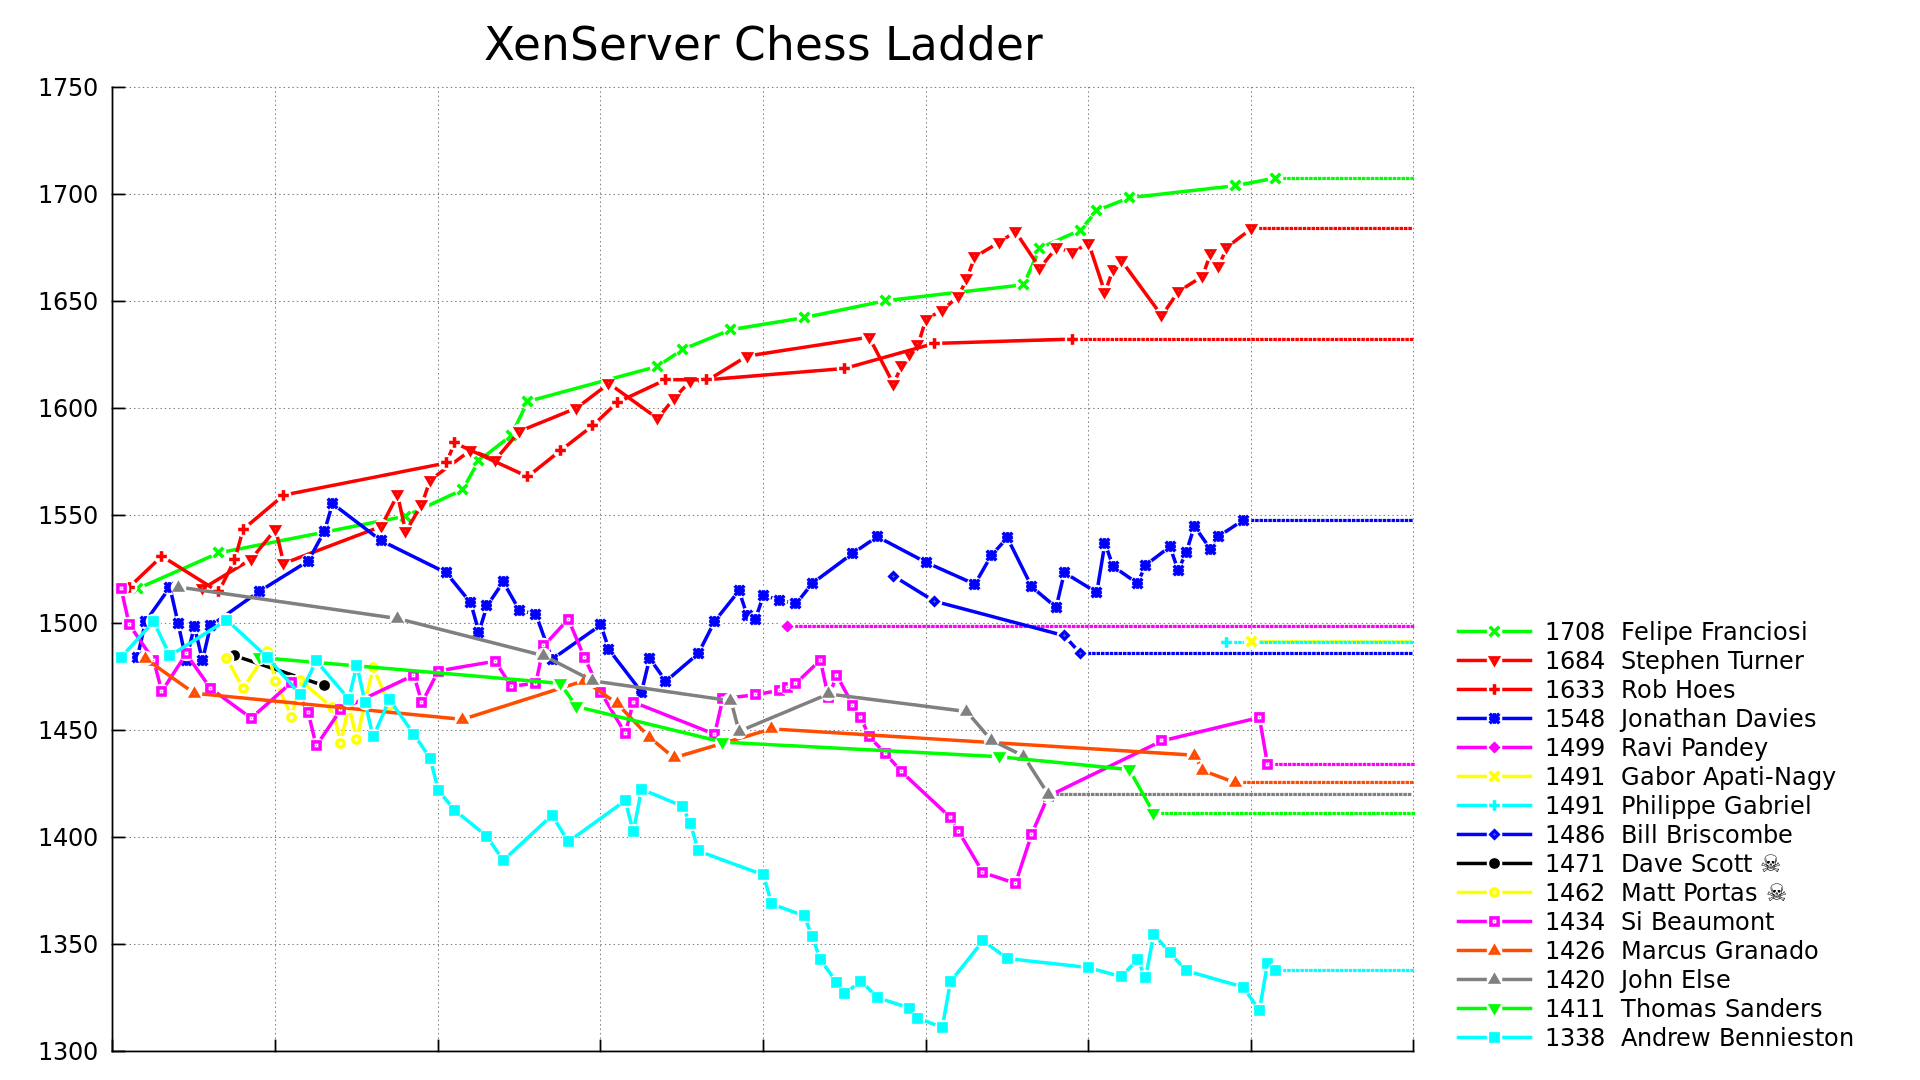
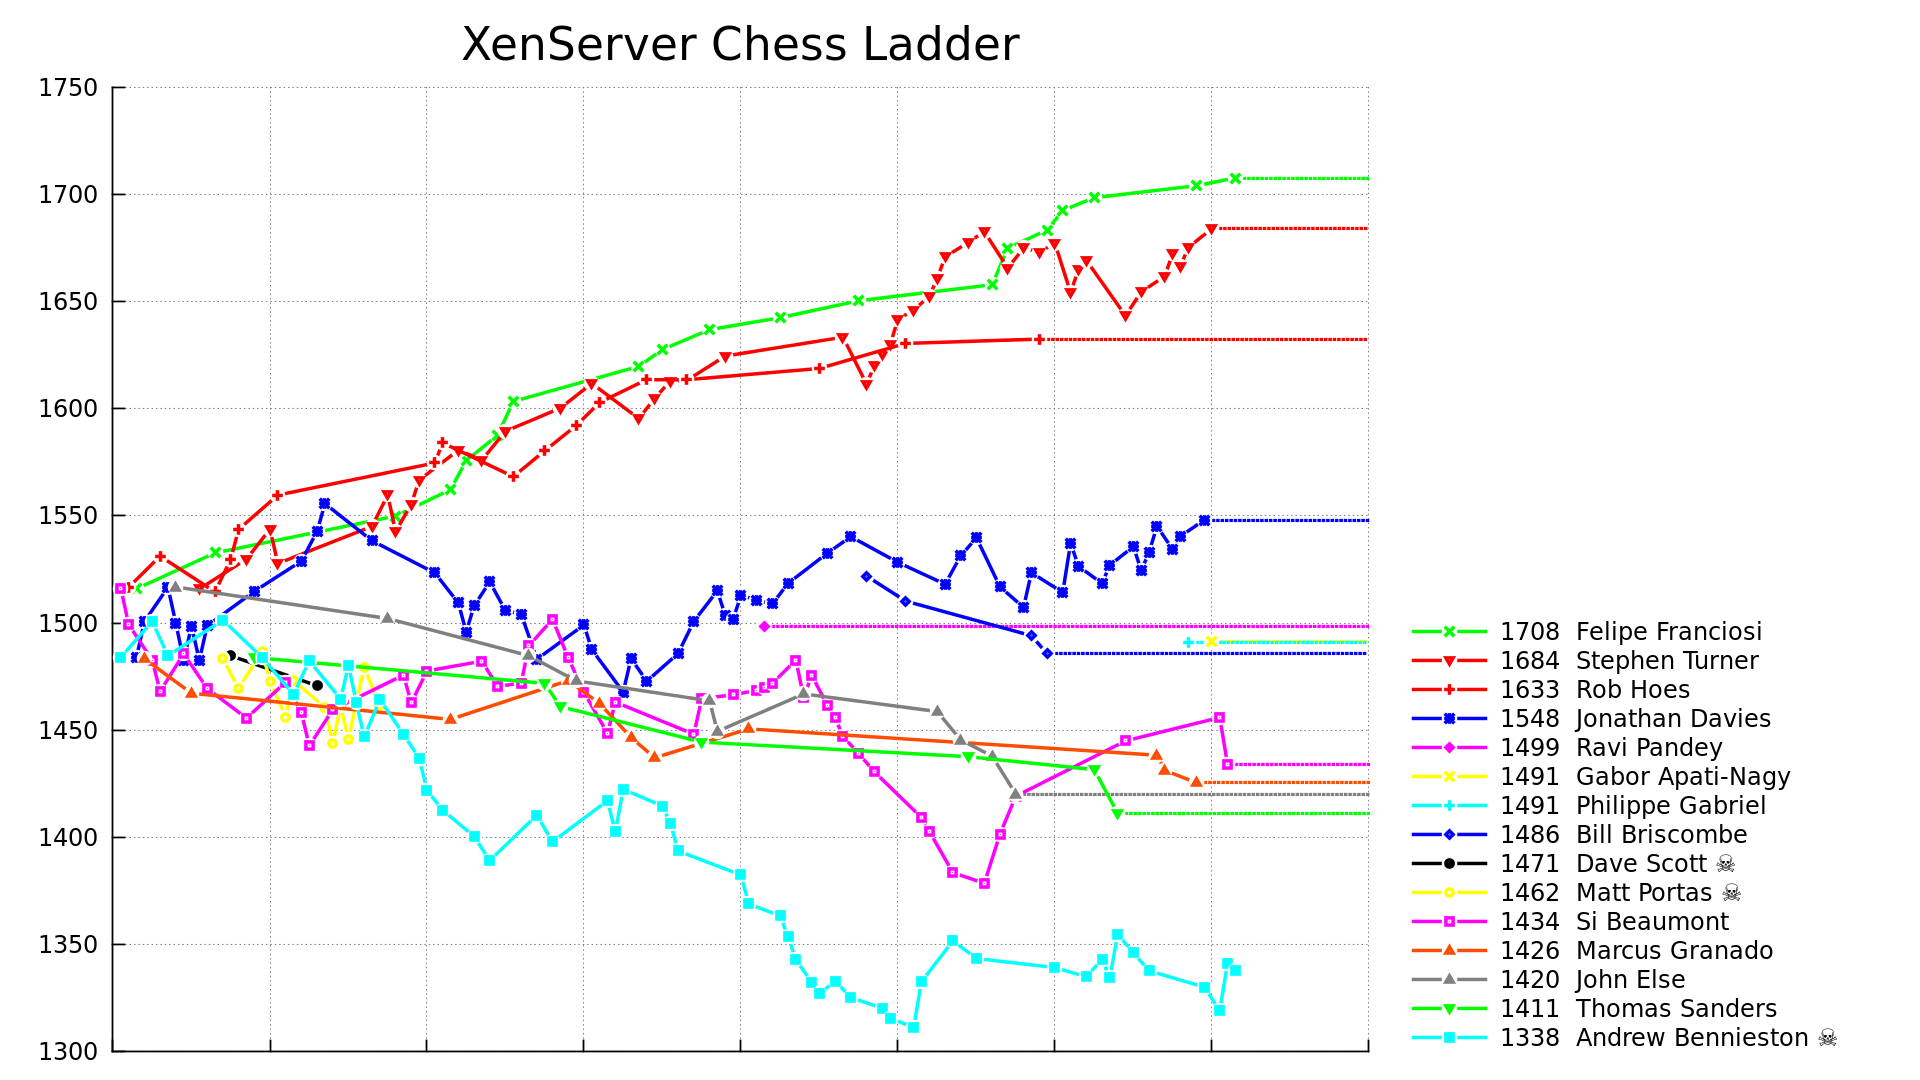
Travis build 281 pushed to gh-pages

Changed region(s): [[0.0625, 0.1528, 0.9688, 0.9778], [0.375, 0.7944, 0.75, 0.9778], [0.25, 0.0, 0.5312, 0.0611]]

diff --git a/index.md b/index.md
@@ -17,15 +17,13 @@ layout: default
     12.  Marcus Granado                     1426  (2 / 11)
     13.  John Else                          1420  (2 / 11)
     14.  Thomas Sanders                     1411  (0 / 7)
-    15.  Andrew Bennieston                  1338  (13 / 52)
+    15.  Andrew Bennieston               ☠  1338  (13 / 52)
 ### Suggested games (least played)
-             Ravi Pandey - Andrew Bennieston
           Thomas Sanders - Bill Briscombe
-        Philippe Gabriel - Felipe Franciosi
+             Ravi Pandey - Felipe Franciosi
              Si Beaumont - Gabor Apati-Nagy
-          Thomas Sanders - John Else
+        Philippe Gabriel - John Else
              Ravi Pandey - Jonathan Davies
-        Philippe Gabriel - Marcus Granado
                 Rob Hoes - Philippe Gabriel
           Stephen Turner - Ravi Pandey
                 Rob Hoes - Gabor Apati-Nagy
